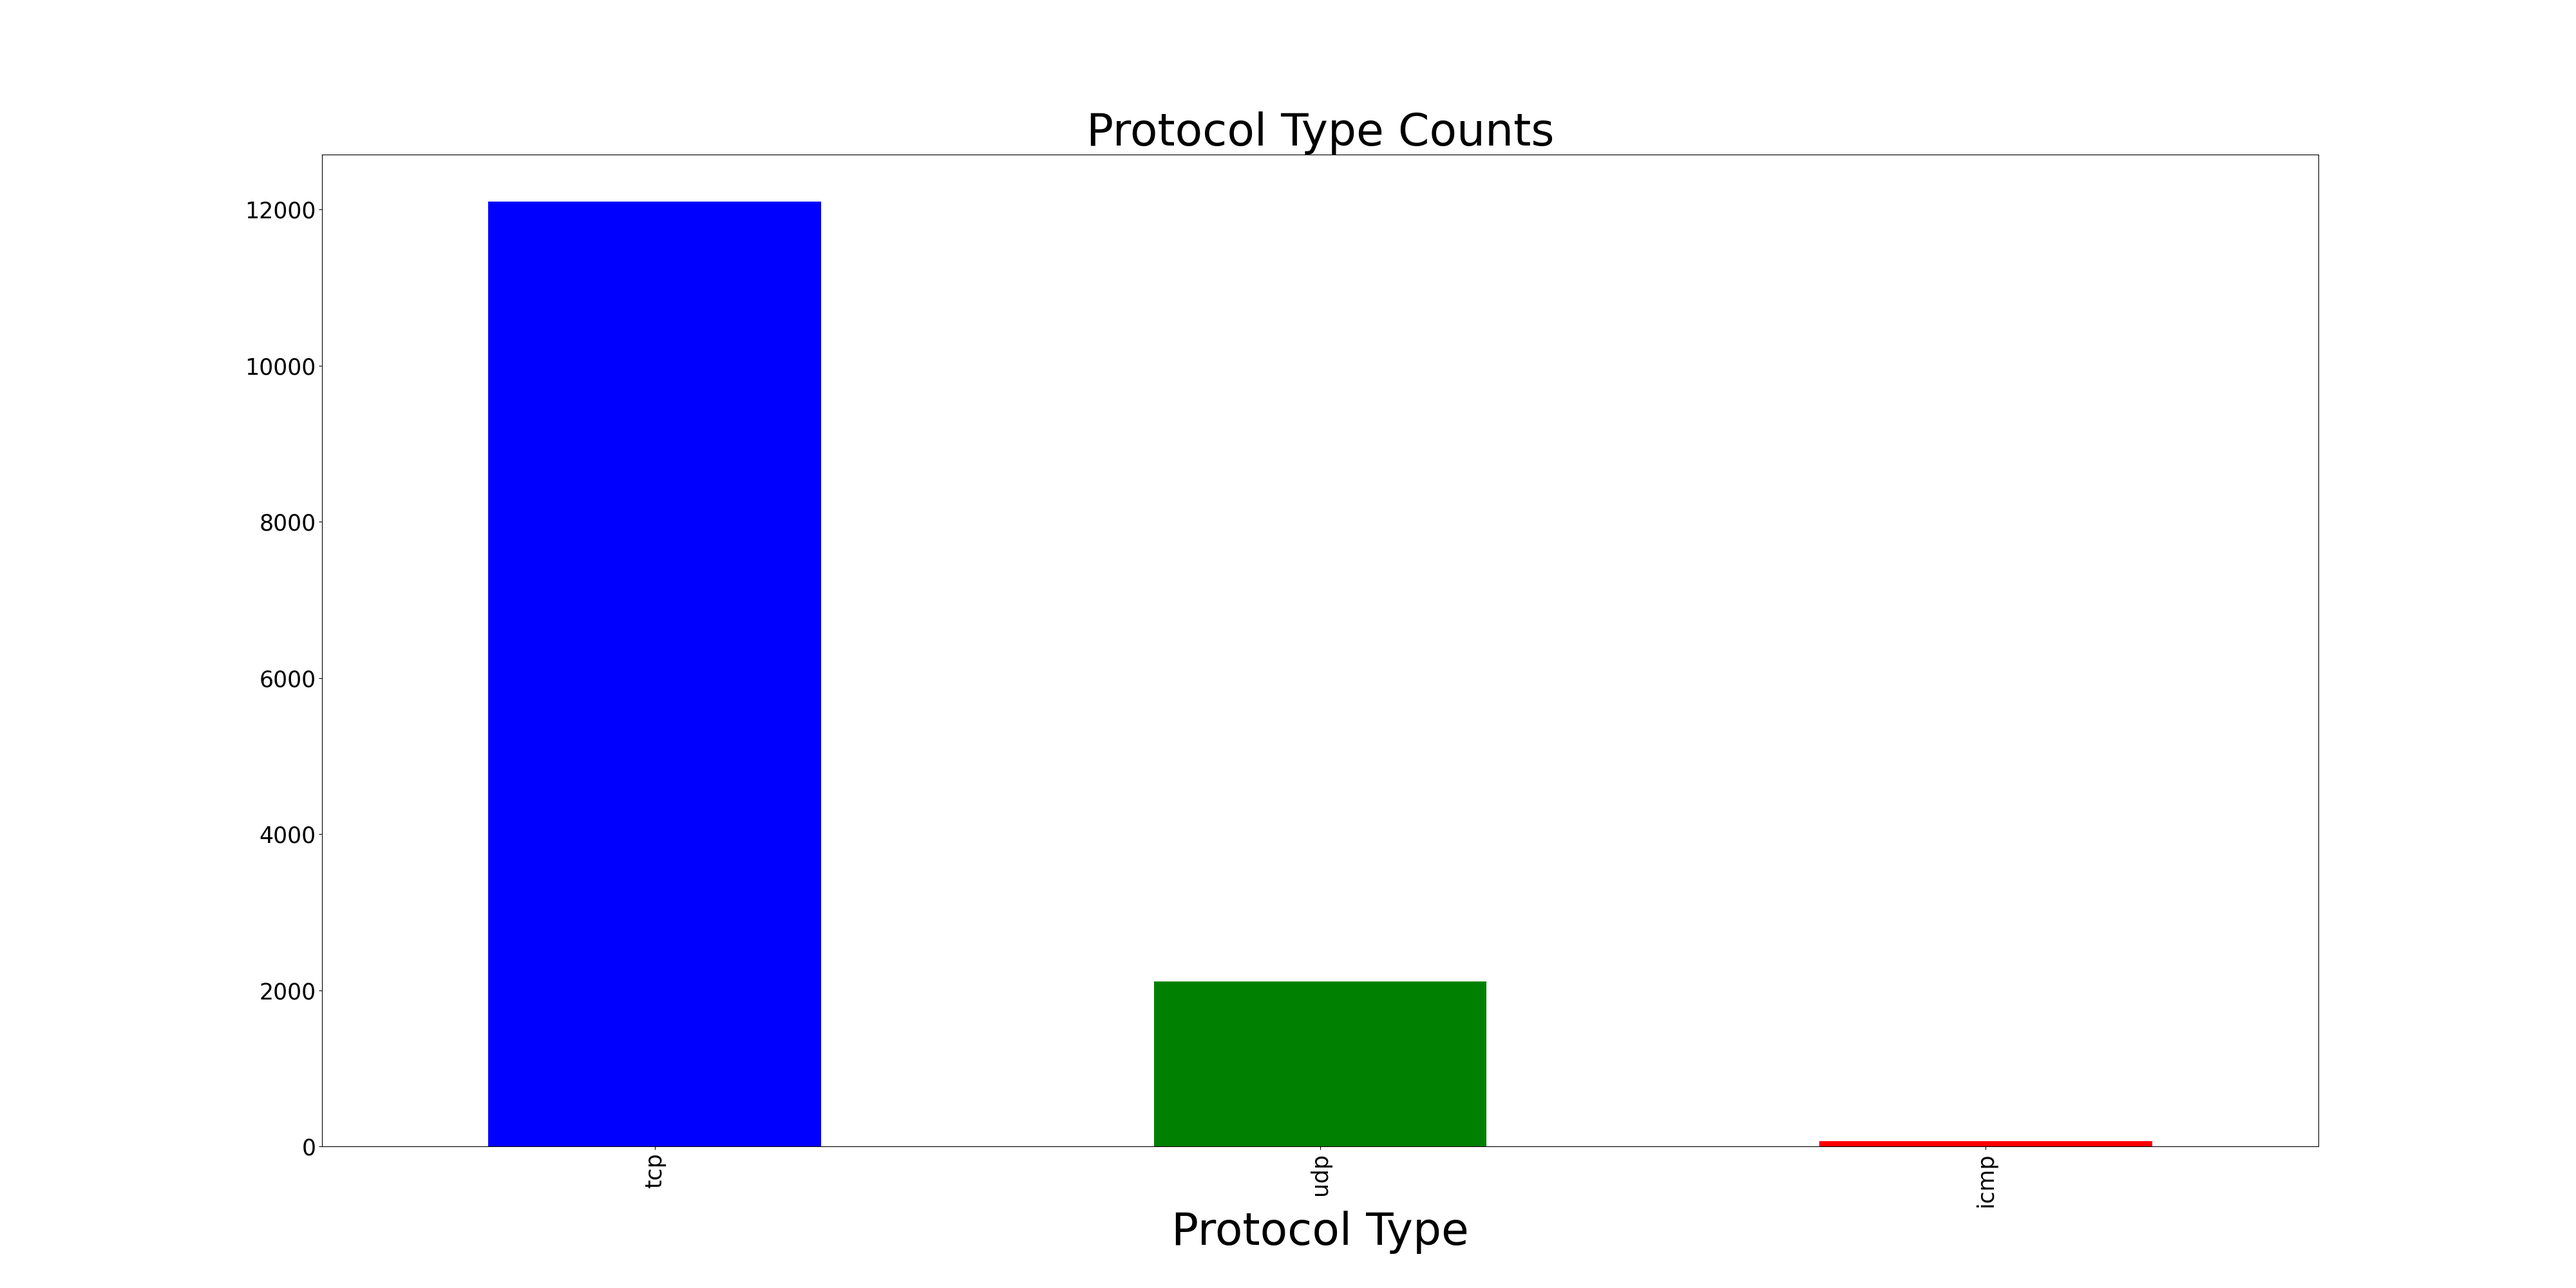
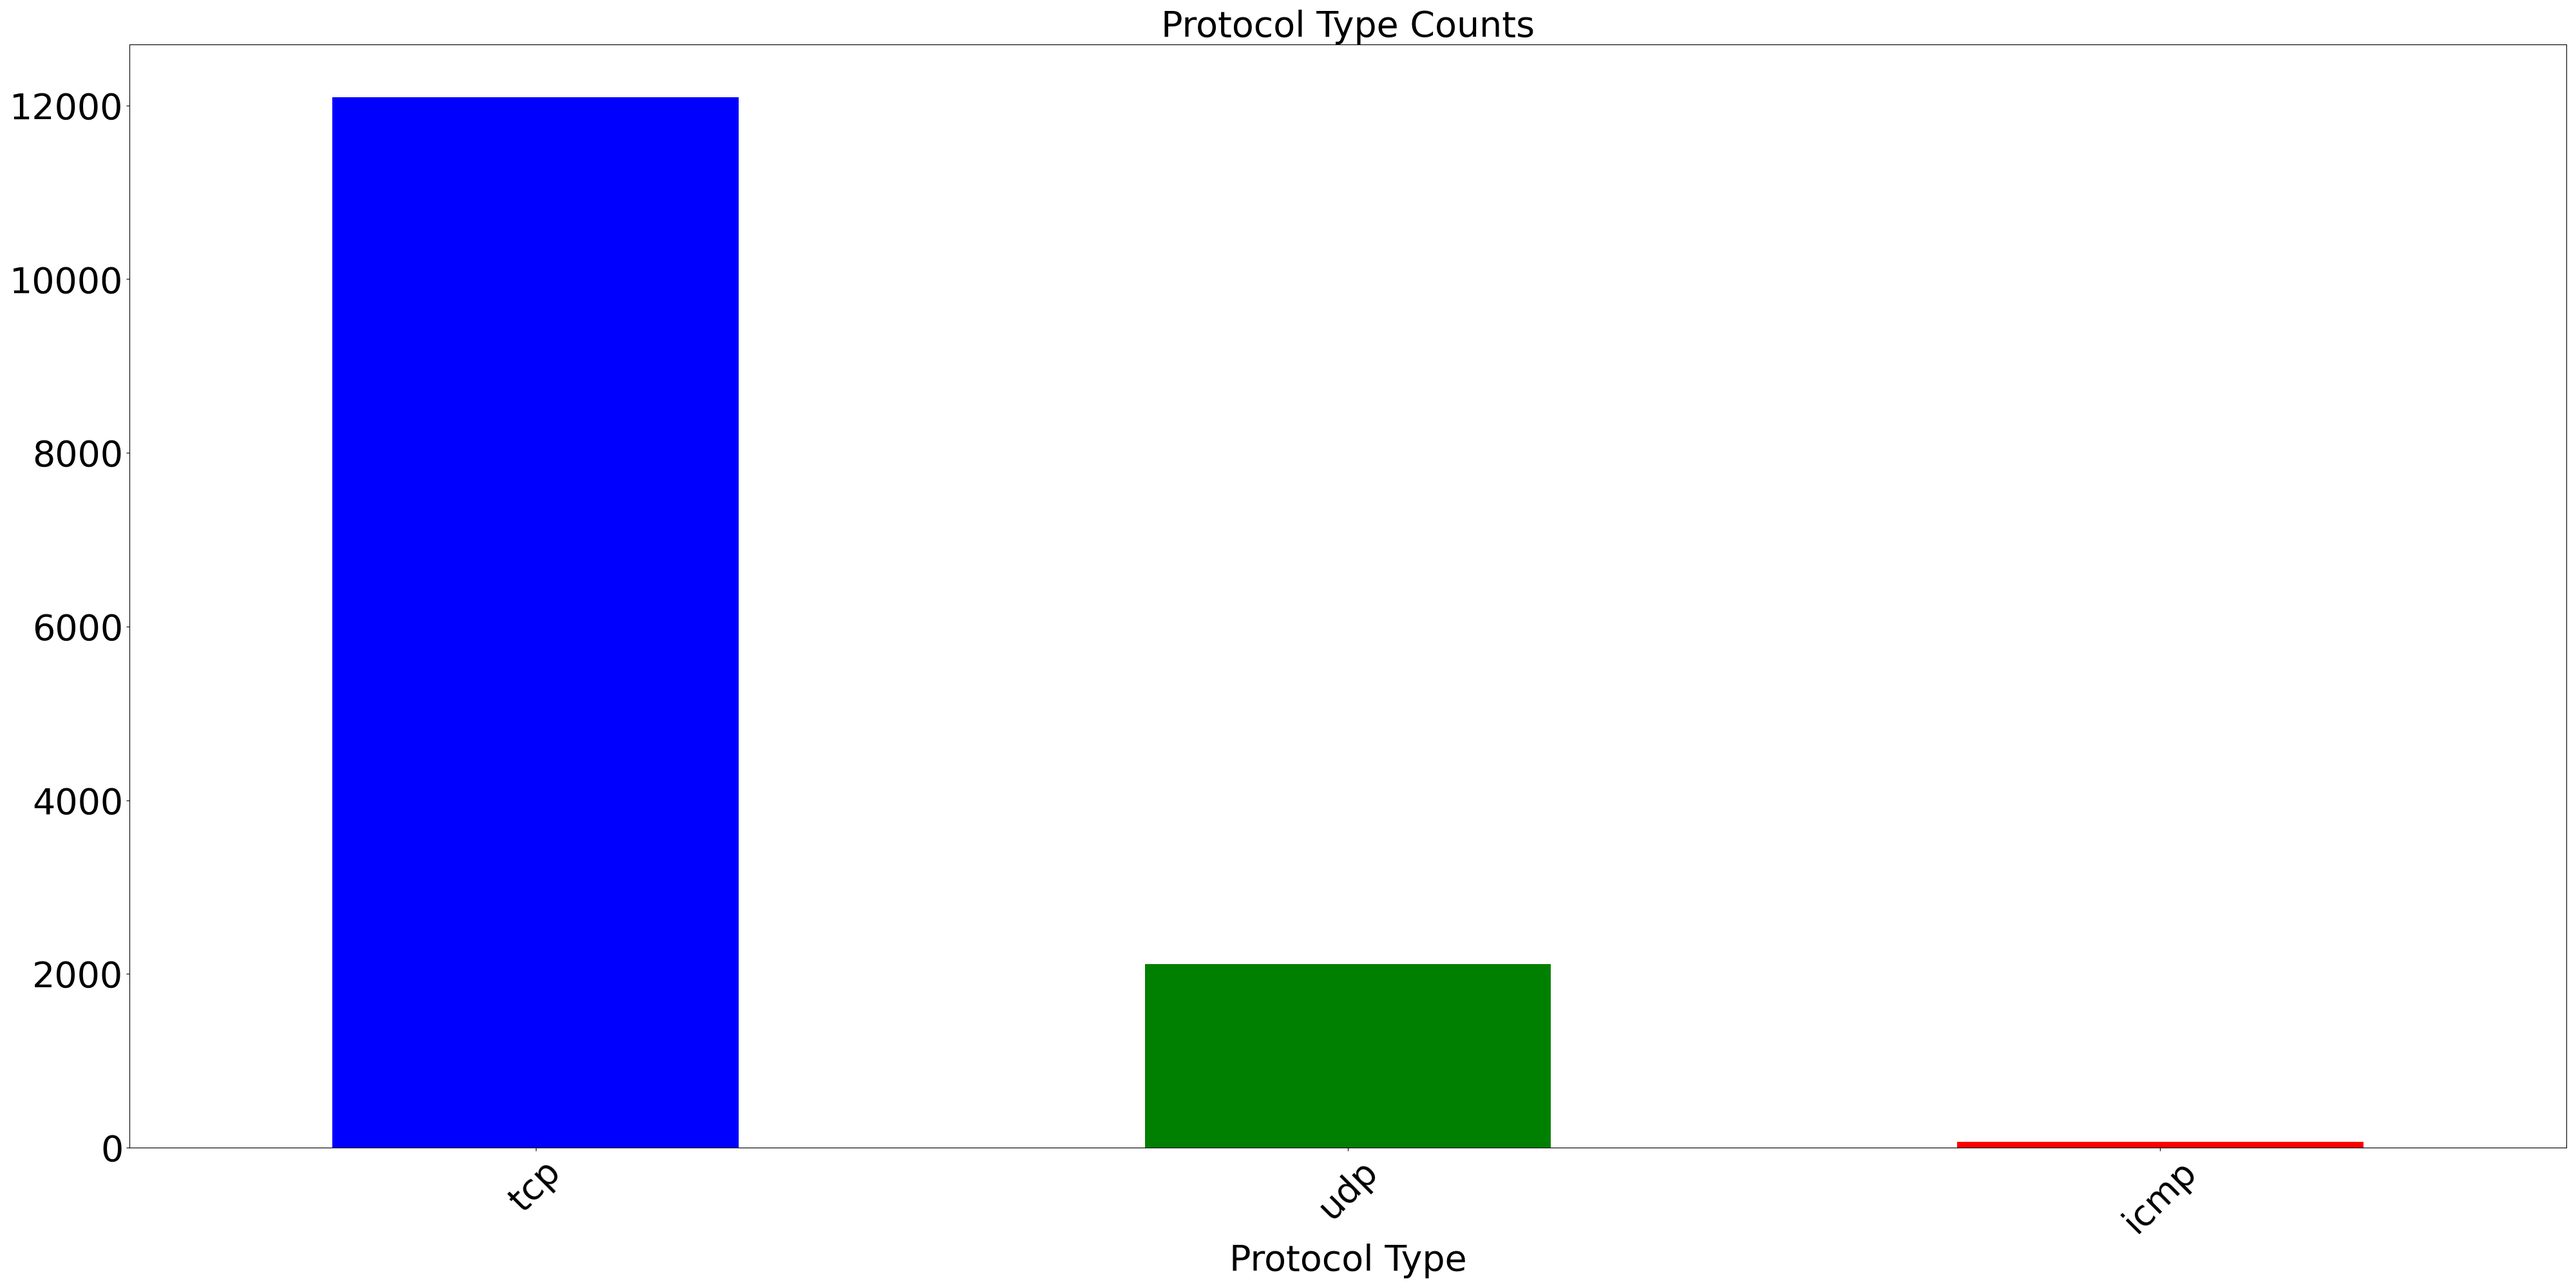
pictures

diff --git a/ml_back_end.py b/ml_back_end.py
@@ -19,9 +19,9 @@ pd.set_option('display.max_colwidth', None)
 
 #db_path = 'C:/Users/rober/SQLite/CyberSentryDB.db'
 
-#db_path = 'C:/Users/andre/SQLite/CyberSentryDB.db'
+db_path = 'C:/Users/andre/SQLite/CyberSentryDB.db'
 
-db_path = 'C:/Users/diama/SQLiteStudio/CyberSentryDB0.db'
+#db_path = 'C:/Users/diama/SQLiteStudio/CyberSentryDB0.db'
 
 conn = sql.connect(db_path)
 
@@ -310,34 +310,48 @@ colors_flag = ['purple', 'pink', 'lightblue']
 # Plot for protocol_type with colors
 plt.figure(figsize=(40, 20))
 attacks_df["protocol_type"].value_counts().plot(kind='bar', label='protocol type', color=colors_protocol_type)
-plt.xlabel('Protocol Type', fontsize=50)
-plt.title('Protocol Type Counts', fontsize=50)
+plt.xlabel('Protocol Type', fontsize=40)
+plt.title('Protocol Type Counts', fontsize=40)
+plt.xticks(rotation=45, fontsize=40)
+plt.yticks(fontsize=40)  # Increase font size of y-axis labels
+plt.tight_layout()
 plt.savefig("static/images/protocol_type.png")
 plt.close()
 
 # Plot for service with colors
 plt.figure(figsize=(40, 20))
 attacks_df['service'].value_counts().head(10).plot(kind='bar', color=colors_service)
-plt.xlabel('Service', fontsize=50)
-plt.title('Top 10 Services', fontsize=50)
+plt.xlabel('Service', fontsize=40)
+plt.title('All Services', fontsize=40)
+plt.xticks(rotation=45, fontsize=40)
+plt.yticks(fontsize=40)  # Increase font size of y-axis labels
+plt.tight_layout()
 plt.savefig("static/images/service.png")
 plt.close()
 
 # Plot for flag with colors
 plt.figure(figsize=(40, 20))
 attacks_df["flag"].value_counts().plot(kind='bar', color=colors_flag)
-plt.xlabel('Flag', fontsize=50)
-plt.title('Flag Counts', fontsize=50)
+plt.xlabel('Flag', fontsize=40)
+plt.title('Flag Counts', fontsize=40)
+plt.xticks(rotation=45, fontsize=40)
+plt.yticks(fontsize=40)  # Increase font size of y-axis labels
+plt.tight_layout()
 plt.savefig("static/images/flag.png")
 plt.close()
 
 # Assuming 'ip_address' is the column with IP addresses
 ip_address_counts = attack_df_with_ip['ip_addresses'].value_counts()
 
+
 # Create a new figure for the IP address count plot
 plt.figure(figsize=(40, 20))
-ip_address_counts.head(10).plot(kind='bar')
-plt.xlabel('IP Address', fontsize=50)
-plt.title('Top 10 IP Addresses', fontsize=50)
+ip_address_counts.head(10).plot(kind='bar', color=['blue', 'green', 'red', 'cyan', 'magenta'])
+plt.xlabel('IP Address', fontsize=40)
+plt.ylabel('Count', fontsize=40)  # Assuming you want to label the y-axis as well
+plt.title('All IP Addresses', fontsize=40)
+plt.xticks(rotation=45, fontsize=40)  # Rotate x-axis labels to 45 degrees and increase font size
+plt.yticks(fontsize=40)  # Increase font size of y-axis labels
+plt.tight_layout()
 plt.savefig("static/images/ip_address_counts.png")
 plt.close()
